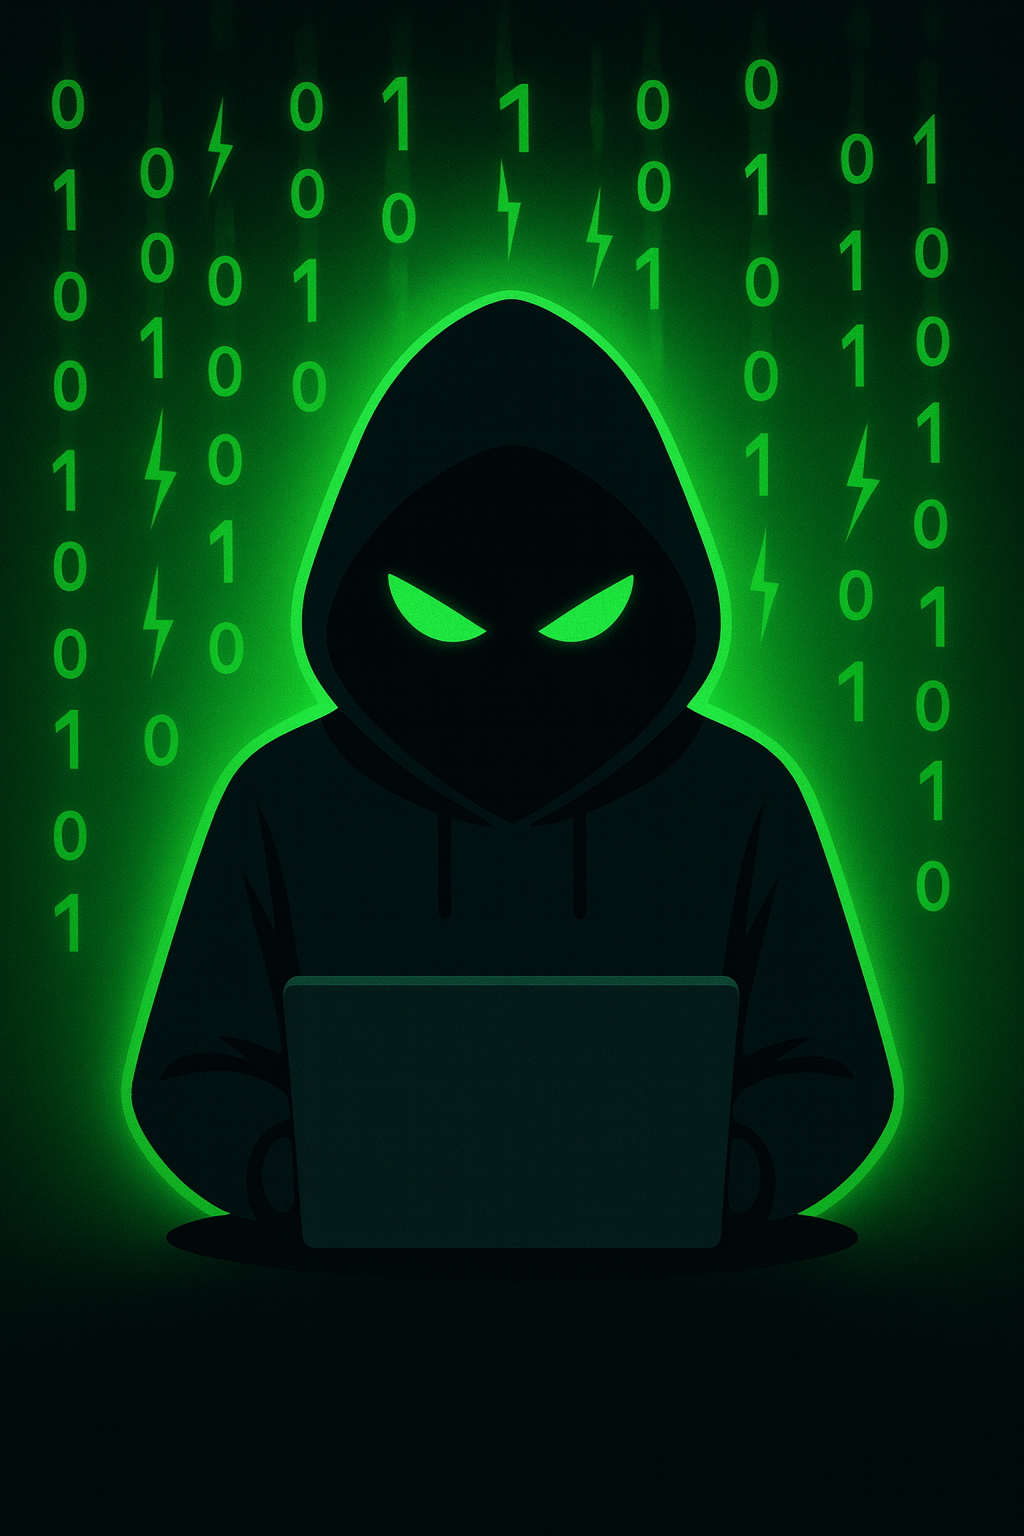
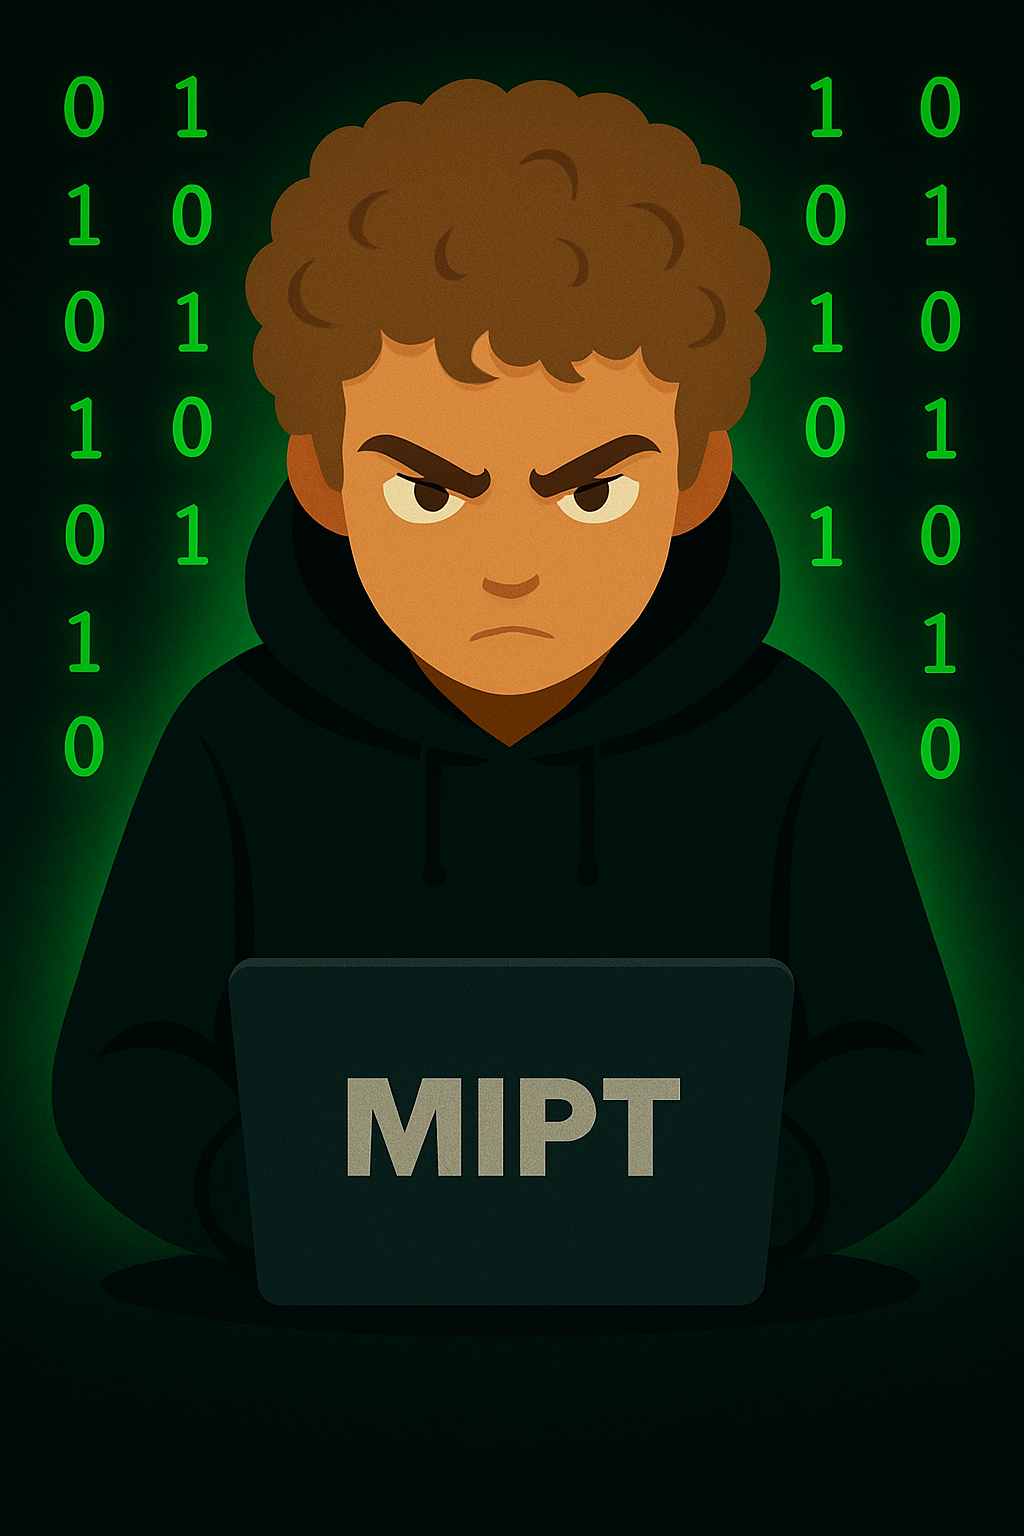
change README.md

diff --git a/README.md b/README.md
@@ -5,7 +5,7 @@
 ![Semester](https://img.shields.io/badge/Semester-3rd-orange)
 [![Repo](https://img.shields.io/badge/GitHub-OS__tasks-black?logo=github)](https://github.com/dangerUser45/OS_tasks)
 
-![picture](preview.png)
+<img src="preview.png" width="300">
 
 Семинарские работы по системному программированию на языке **C**.  
 Каждый семинар посвящён отдельным механизмам Linux: процессы, каналы, IPC, семафоры, mmap, pthreads, файловые системы и сигналы.
